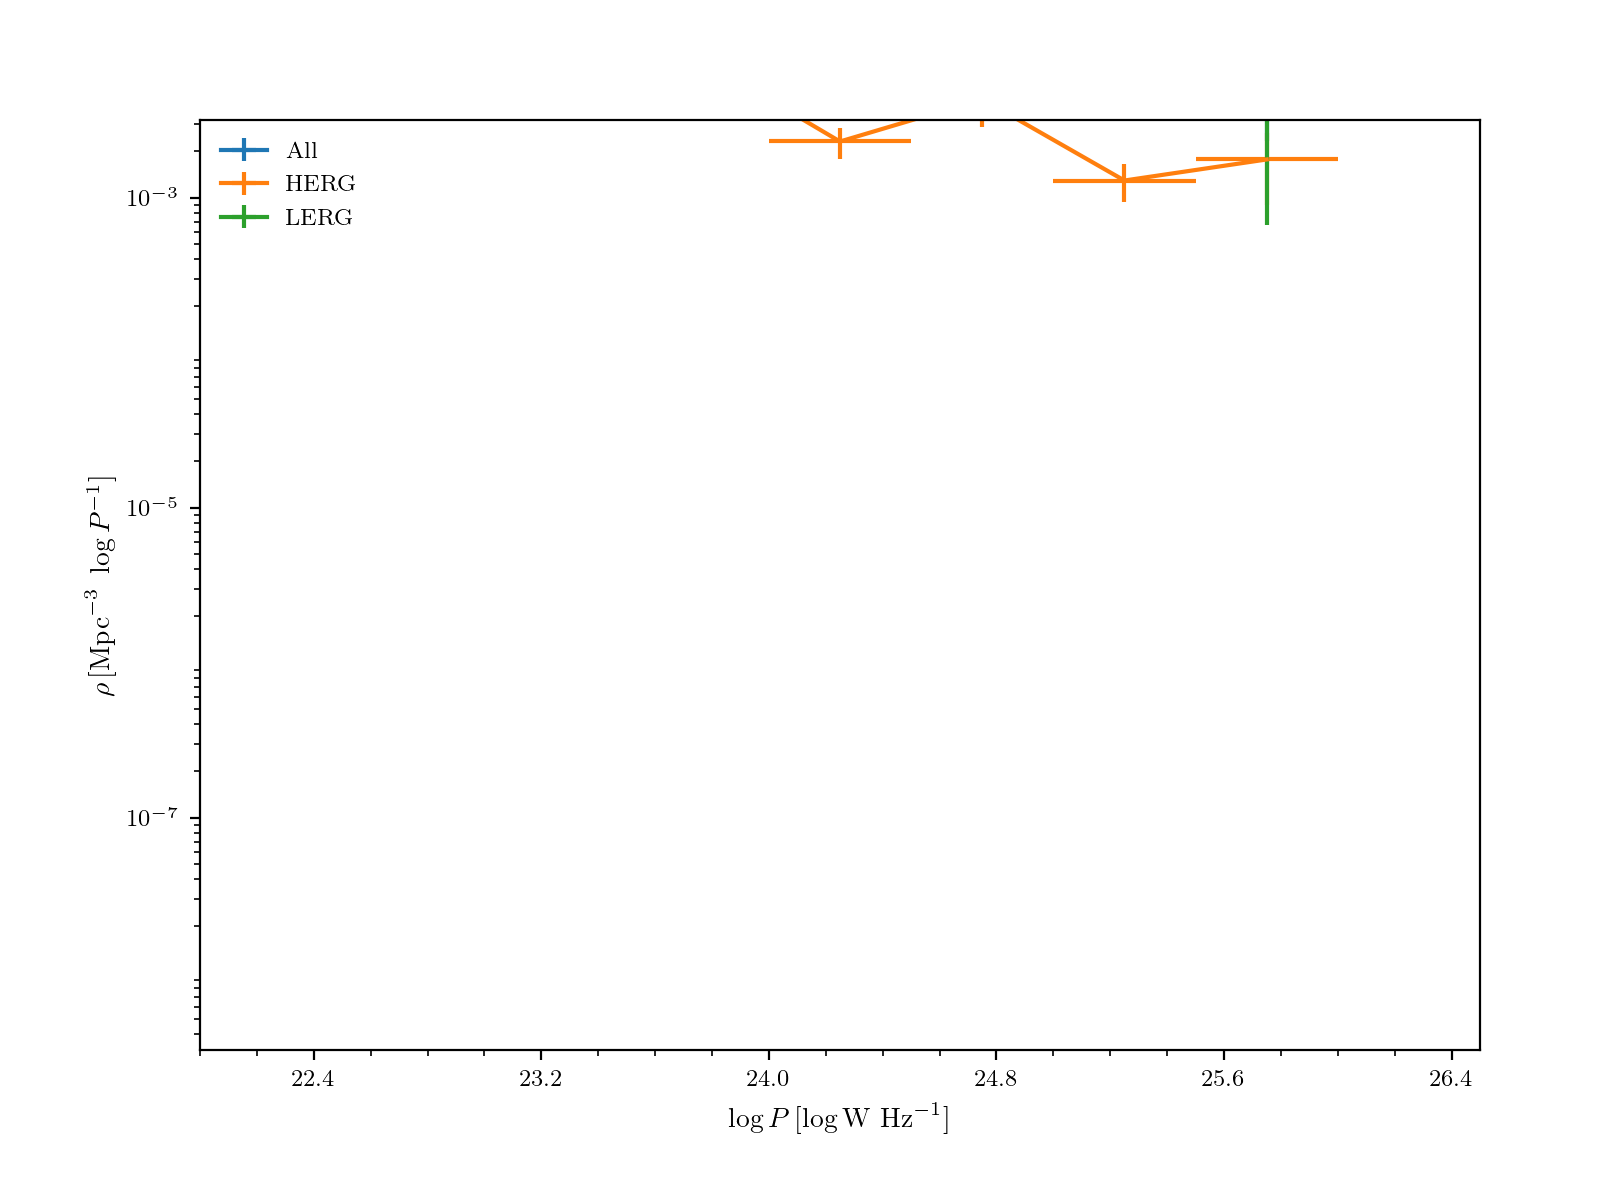
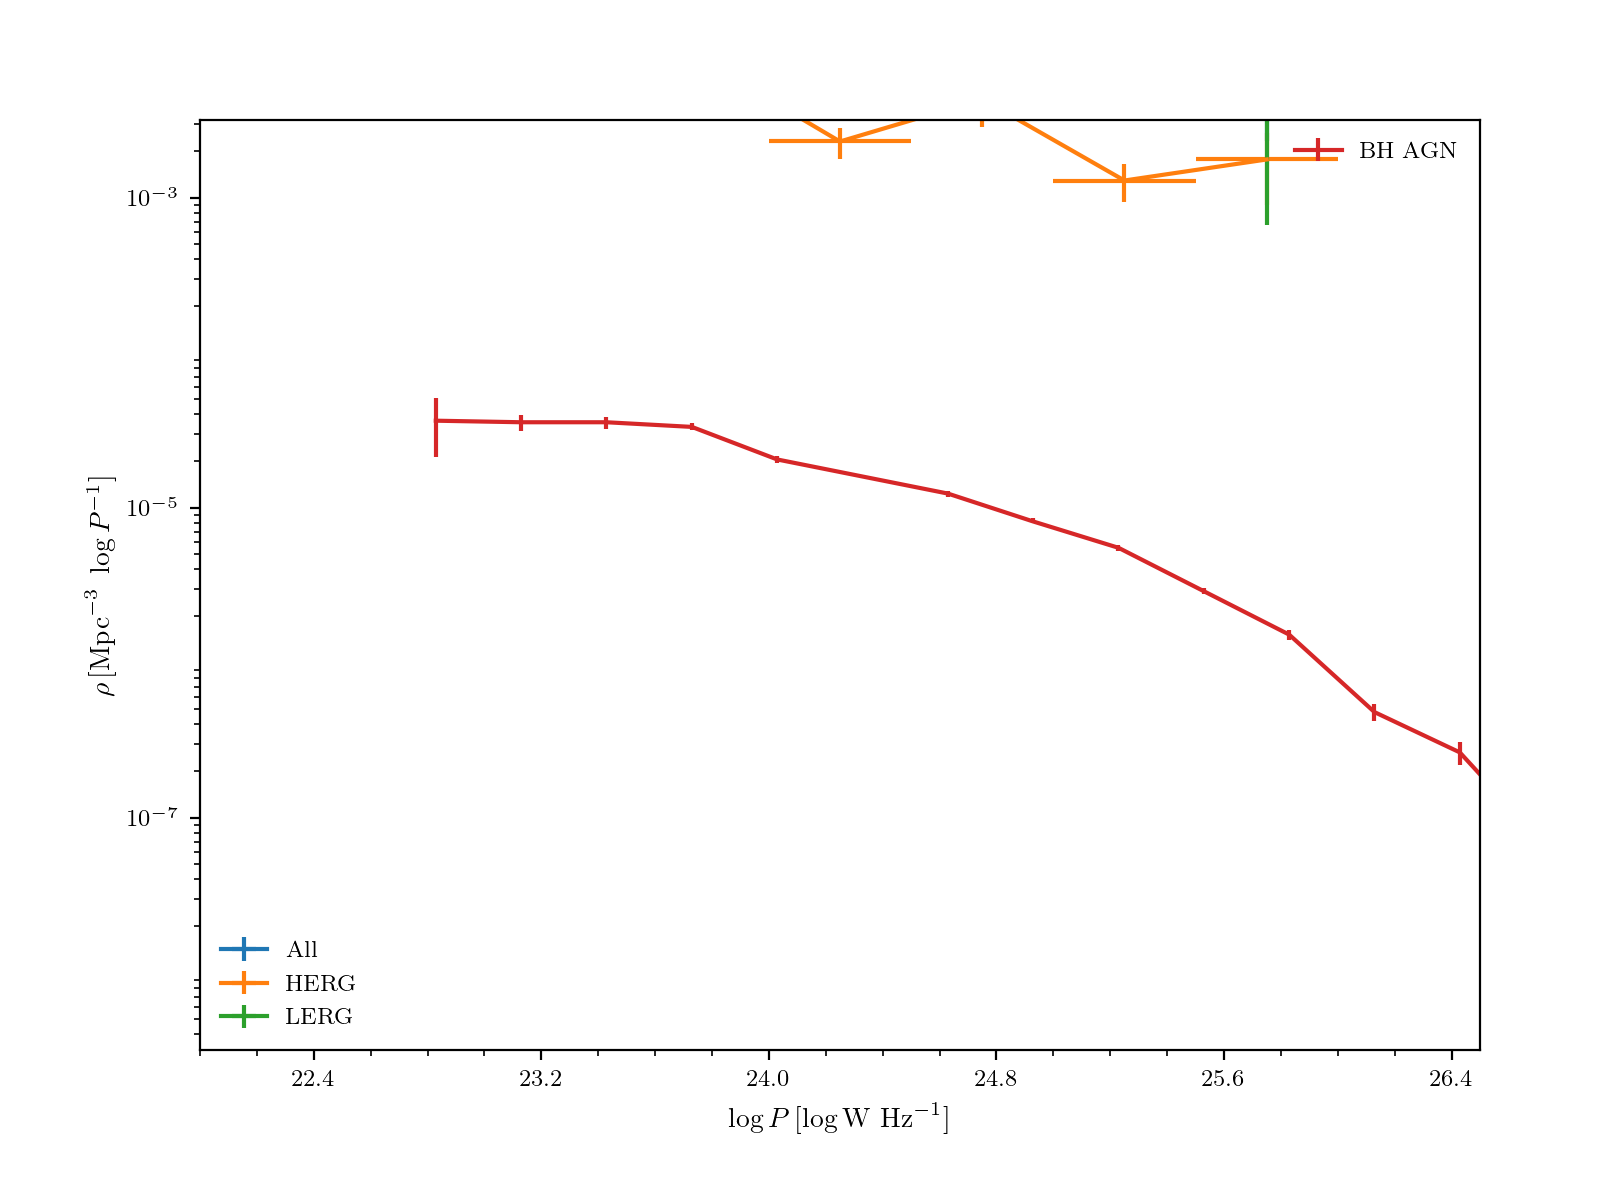
update example

diff --git a/LF_util.py b/LF_util.py
@@ -14,6 +14,8 @@ import astropy.units as u
 acosmo = FlatLambdaCDM(H0=70, Om0=0.3)
 
 
+MODPATH = os.path.dirname(__file__)
+
 class completenessf(object):
     def __init__(self,npyfile):
         area_i,irangep,fraction_total_MC_mean,fraction_total_MC_sig,fraction_total_MC_mean_perArea = np.load(npyfile)
@@ -1114,7 +1116,7 @@ def get_novak_lf_model(z=0, scalef=150.):
 
 def get_BH(ttype='all', f=150.):
     # load Best & Heckman LF
-    BHLF = Table.read('/local/wwilliams/herts_projects/bootes_RLF/LFs/bestheckmanLF.fits')
+    BHLF = Table.read(os.path.join(MODPATH,'data/LFs/bestheckmanLF.fits'))
     logPlow = BHLF['Plow']
     logPhigh = BHLF['Phigh']
     logp_BH = (logPlow+logPhigh)/2.
@@ -1157,9 +1159,9 @@ def get_BH(ttype='all', f=150.):
 
 def get_MS(ttype='agn', f=150.):
     if ttype == 'agn':
-        ff = '/local/wwilliams/herts_projects/bootes_RLF/LFs/ms-agn.txt'
+        ff = os.path.join(MODPATH,'data/LFs/ms-agn.txt') 
     elif ttype =='sf':
-        ff = '/local/wwilliams/herts_projects/bootes_RLF/LFs/ms-sf.txt'
+        ff = os.path.join(MODPATH,'data/LFs/ms-sf.txt') 
         
     elif ttype == 'all':
         xA, yA, yerrA = get_MS(ttype='agn', f=f)
@@ -1200,9 +1202,9 @@ def get_MS(ttype='agn', f=150.):
 
 def get_P(ttype='agn', f=150.):
     if ttype == 'agn':
-        ff = '/local/wwilliams/herts_projects/bootes_RLF/LFs/prescott-agn.txt'
+        ff = os.path.join(MODPATH,'data/LFs/prescott-agn.txt')
     elif ttype =='sf':
-        ff = '/local/wwilliams/herts_projects/bootes_RLF/LFs/prescott-sf.txt'
+        ff = os.path.join(MODPATH,'data/LFs/prescott-sf.txt')
     elif ttype == 'all':
         xA, yA, yerrA = get_P(ttype='agn', f=f)
         xS, yS, yerrS = get_P(ttype='sf', f=f)
@@ -1239,9 +1241,9 @@ def get_P(ttype='agn', f=150.):
 
 def get_mjh(ttype='agn'):
     if ttype == 'agn':
-        f = '/local/wwilliams/herts_projects/bootes_RLF/LFs/lofar-agn.txt'
+        f = os.path.join(MODPATH,'data/LFs/lofar-agn.txt')
     elif ttype =='sf':
-        f = '/local/wwilliams/herts_projects/bootes_RLF/LFs/lofar-sf.txt'
+        f = os.path.join(MODPATH,'data/LFs/lofar-sf.txt')
     elif ttype == 'all':
         xA, yA, yerrA = get_mjh(ttype='agn')
         xS, yS, yerrS = get_mjh(ttype='sf')
@@ -1272,7 +1274,7 @@ def get_mjh(ttype='agn'):
 
 def get_pracy_LF(ttype='all', f=150.):
     # load Best & Heckman LF
-    PLF = Table.read('/local/wwilliams/herts_projects/bootes_RLF/LFs/pracy.fits')
+    PLF = Table.read(os.path.join(MODPATH,'data/LFs/pracy.fits'))
     logp_P = PLF['P']
 
     # scale to 150 MHz

diff --git a/examples/use_lf_sample.py b/examples/use_lf_sample.py
@@ -1,5 +1,6 @@
 import sdss_sample_util
 import lf_sample
+import LF_util
 import numpy as np
 import matplotlib.pyplot as plt
 import matplotlib as mpl
@@ -98,10 +99,18 @@ ax.xaxis.set_major_locator( plt.MaxNLocator(nbins=6, prune='lower') )
 ax.xaxis.set_minor_locator( mpl.ticker.MultipleLocator(0.25))
 ax.yaxis.set_major_locator( mpl.ticker.LogLocator(numticks=5))
 
+ee = []
+l = ax.errorbar(low_z_sample.LF_x, low_z_sample.LF_rho, [low_z_sample.LF_rhoerrup, low_z_sample.LF_rhoerrlow], low_z_sample.LF_xerr, label='All' )
+ee.append(l)
+l = ax.errorbar(low_z_herg_sample.LF_x, low_z_herg_sample.LF_rho, [low_z_herg_sample.LF_rhoerrup, low_z_herg_sample.LF_rhoerrlow], low_z_herg_sample.LF_xerr, label='HERG' )
+ee.append(l)
+l = ax.errorbar(low_z_lerg_sample.LF_x, low_z_lerg_sample.LF_rho, [low_z_lerg_sample.LF_rhoerrup, low_z_lerg_sample.LF_rhoerrlow], low_z_lerg_sample.LF_xerr, label='LERG' )
+ee.append(l)
 
-ax.errorbar(low_z_sample.LF_x, low_z_sample.LF_rho, [low_z_sample.LF_rhoerrup, low_z_sample.LF_rhoerrlow], low_z_sample.LF_xerr, label='All' )
-ax.errorbar(low_z_herg_sample.LF_x, low_z_herg_sample.LF_rho, [low_z_herg_sample.LF_rhoerrup, low_z_herg_sample.LF_rhoerrlow], low_z_herg_sample.LF_xerr, label='HERG' )
-ax.errorbar(low_z_lerg_sample.LF_x, low_z_lerg_sample.LF_rho, [low_z_lerg_sample.LF_rhoerrup, low_z_lerg_sample.LF_rhoerrlow], low_z_lerg_sample.LF_xerr, label='LERG' )
+ee2 = []
+x,y, yerr =  LF_util.get_BH(ttype='agn', f=150.)
+l = ax.errorbar(x,y,yerr, label='BH AGN') 
+ee2.append(l)
 
 ax.set_ylabel(r'$\rho \,[\mathrm{Mpc}^{-3}~\log P ^{-1}]$')
     
@@ -109,7 +118,9 @@ ax.set_xlabel(r'$\log P \, [\log \mathrm{W~Hz}^{-1}]$')
 ax.set_ylim(10**-8.5, 10**-2.5)
 ax.set_xlim(22.0, 26.5)
 
-ax.legend(loc='upper left')
+l1 = ax.legend(handles=ee, loc='lower left')
+ax.add_artist(l1)
+ax.legend(handles=ee2, loc='upper right')
 plt.minorticks_on()
 plt.savefig('RLF_local_HERG_LERG')
 #pp.fig_save_many(f, 'RLF_local_HERG_LERG')
